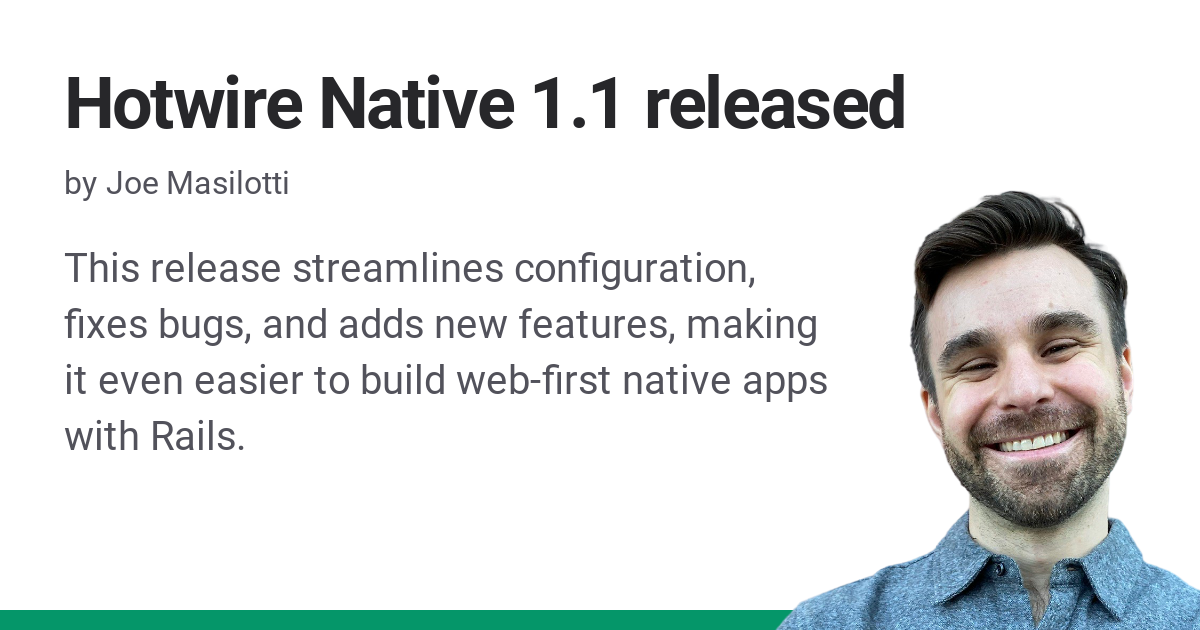
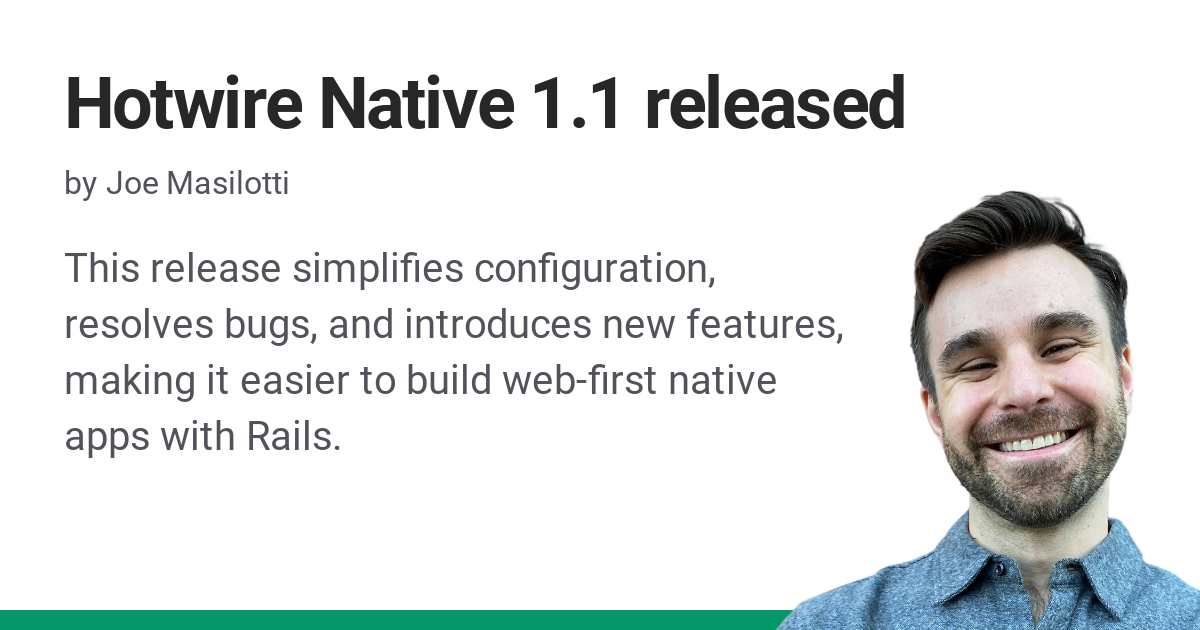
Edit latest blog post

diff --git a/_posts/2024-12-18-hotwire-native-1.1.md b/_posts/2024-12-18-hotwire-native-1.1.md
@@ -1,14 +1,14 @@
 ---
 title: Hotwire Native 1.1 released
 date: 2024-12-18
-description: "This release streamlines configuration, fixes bugs, and adds new features, making it even easier to build web-first native apps with Rails."
+description: "This release simplifies configuration, resolves bugs, and introduces new features, making it easier to build web-first native apps with Rails."
 ---
 
 [Hotwire Native](https://native.hotwired.dev), a web-first framework for building native mobile apps with Ruby on Rails, just released version 1.1. This release makes configuring the framework more predictable, adds new modal presentation options, changes how to customize the user agent, and addresses a bunch of bugs and issues.
 
 ## [Hotwire Native iOS version 1.1](https://github.com/hotwired/hotwire-native-ios/releases/tag/1.1.0)
 
-The major focus of this release is addressing the issues and questions around configuration. Developers were confused why certain configuration wasn’t applying and not sure where exactly to put the code. Here’s what changed.
+The major focus of this release is addressing issues and questions around configuration. Developers were unsure why certain settings weren’t applying or where exactly to place the code. Here’s what changed.
 
 ### Path configuration
 
@@ -25,7 +25,7 @@ Hotwire.loadPathConfiguration(from: [
 
 ### Global configuration
 
-Speaking of global APIs, *all* Hotwire Native configuration should be done before a `Navigator` instance is created. To encourage that, it is now recommended to do all configuration in `AppDelegate`, instead of `SceneDelegate`, like so:
+Speaking of global APIs, *all* Hotwire Native configuration should be completed before a `Navigator` instance is created. To encourage this, it is now recommended to handle configuration in `AppDelegate` instead of `SceneDelegate`, like so:
 
 ```swift
 import HotwireNative
@@ -52,7 +52,7 @@ class AppDelegate: UIResponder, UIApplicationDelegate {
 }
 ```
 
-This fixes a slew of inconsistencies that came from a `Navigator` making its first request without being properly configured. If you’ve ever wondered why your bridge components aren’t being registered correctly, this might help!
+This addresses several inconsistencies caused by a `Navigator` making its first request without being properly configured. If you’ve ever wondered why your bridge components weren’t being registered correctly, this update should help!
 
 ### Custom user agent
 
